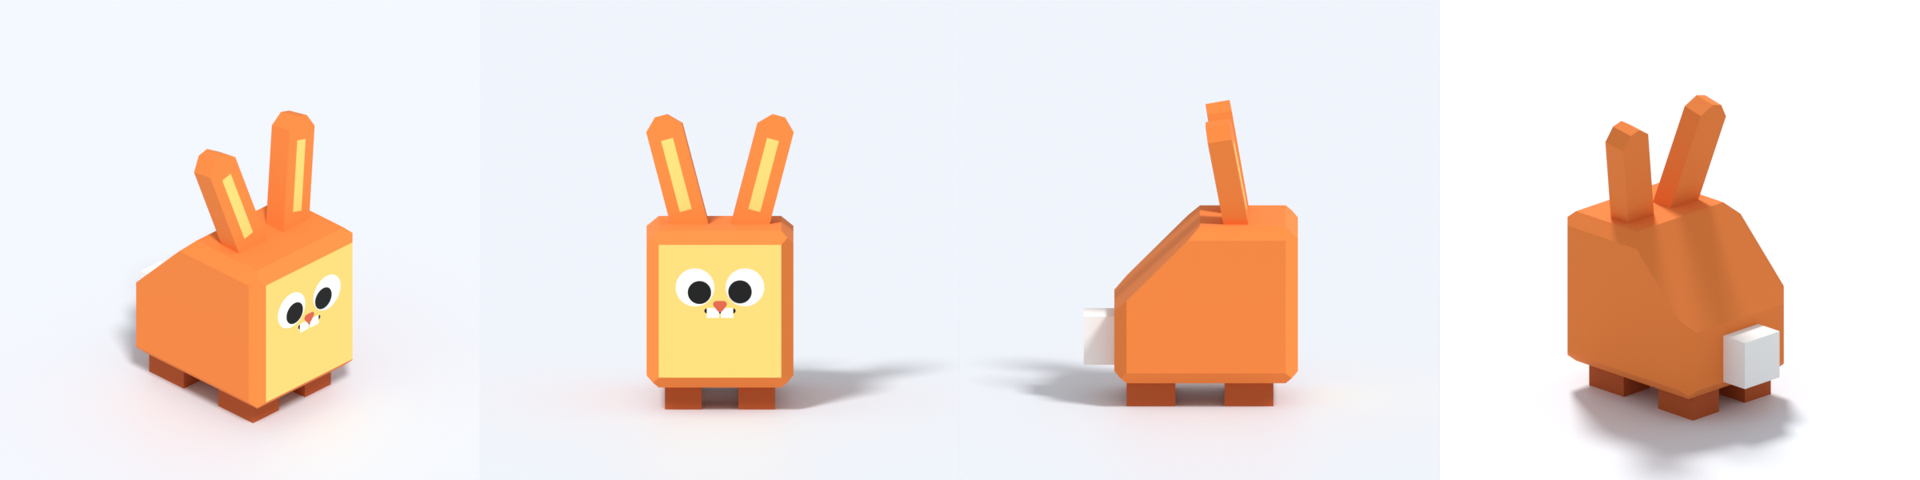
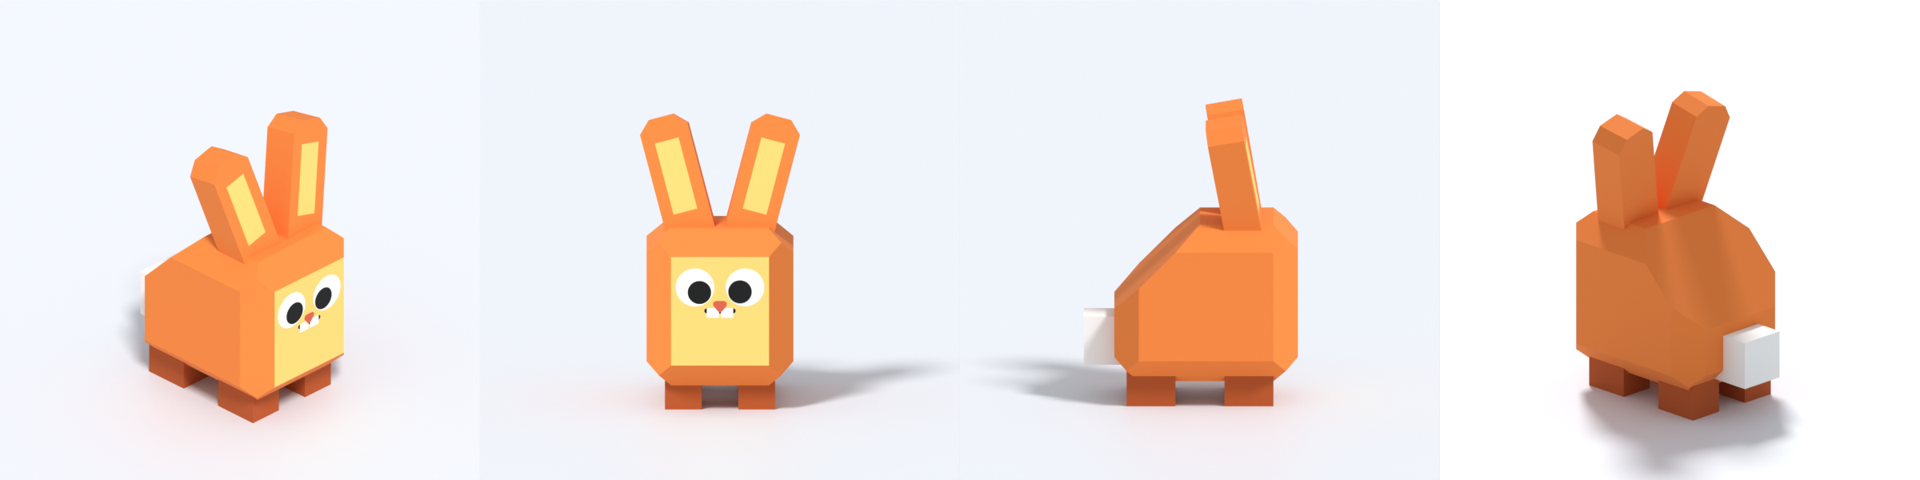
cube bunny: 2-voxel edge bevels and thicker 4 x 3 ears
Claude-Session: https://claude.ai/code/session_01RRjPcssmw86k8yzoijijLA

diff --git a/tools/blender/build_bunny.py b/tools/blender/build_bunny.py
@@ -12,7 +12,8 @@ tall ears with butter insides, a white tail and four dark feet.
 - toy:     a box with short bevels only (the Taxi's lesson, R7a), chunky upright ears.
 - lop:     the classic body with ears that flop down its sides.
 - sitting: a separate head on a low body, so the head can nod and turn; ears swept back.
-- cube:    the reference's profile on a cube: one body part with a big bevel down the back, upright ears.
+- cube:    the reference's profile on a cube: one body part with a big bevel down the back and
+           2-voxel bevels elsewhere, thick upright ears.
 
 The script follows the bake_shade.py contract: parts are authored in voxels under an empty called
 `root`, the root part is `Body`, there is a shadow-catching `ground`, and it ends in the standard
@@ -325,19 +326,19 @@ elif VARIANT == "toy":
 
 elif VARIANT == "cube":
     # The reference's profile on a cube, in one part: a tall front and a back sloping away through one
-    # big 45 deg bevel (a 7 x 7 wedge, R7b) along the top rear edge; every other edge bevelled by one
-    # voxel. Upright ears.
+    # big 45 deg bevel (a 7 x 7 wedge, R7b) along the top rear edge; every other edge bevelled by two
+    # voxels. Upright ears, 4 x 3 thick.
     box = (-6, 6, 2, 15, -7, 8)
     body = Part("Body")
     body.box(*box, COAT)
-    round_box(body, box, top=1, side=1, bottom=1, front_back=False)
+    round_box(body, box, top=2, side=2, bottom=2, front_back=False)
     bevel_edge(body, box, (0, 1, -1), 7)                                         # the sloping back
-    bevel_edge(body, box, (0, 1, 1), 1)
-    bevel_edge(body, box, (0, -1, -1), 1); bevel_edge(body, box, (0, -1, 1), 1)
-    body.paint(lambda x, y, z: z == 7 and -5 <= x < 5 and 3 <= y < 14, FACE)    # the flat front, bevels stay coat
+    bevel_edge(body, box, (0, 1, 1), 2)
+    bevel_edge(body, box, (0, -1, -1), 2); bevel_edge(body, box, (0, -1, 1), 2)
+    body.paint(lambda x, y, z: z == 7 and -4 <= x < 4 and 4 <= y < 13, FACE)    # the flat front, bevels stay coat
     face_uvs(body.build(), 8, 10.5, 11)
     for sx in (1, -1):
-        ear("Ear" + ("R" if sx > 0 else "L"), sx, sx * 2.5, 15, 2, 3, 2, 11, 2, pitch=10, splay=15)
+        ear("Ear" + ("R" if sx > 0 else "L"), sx, sx * 2.5, 15, 2, 4, 3, 11, 2, pitch=10, splay=15)
     tail(5, -7)
     feet((-3, 3), (-4, 4), 3, 4, 3, 1, 2)
     HEIGHT = 26
